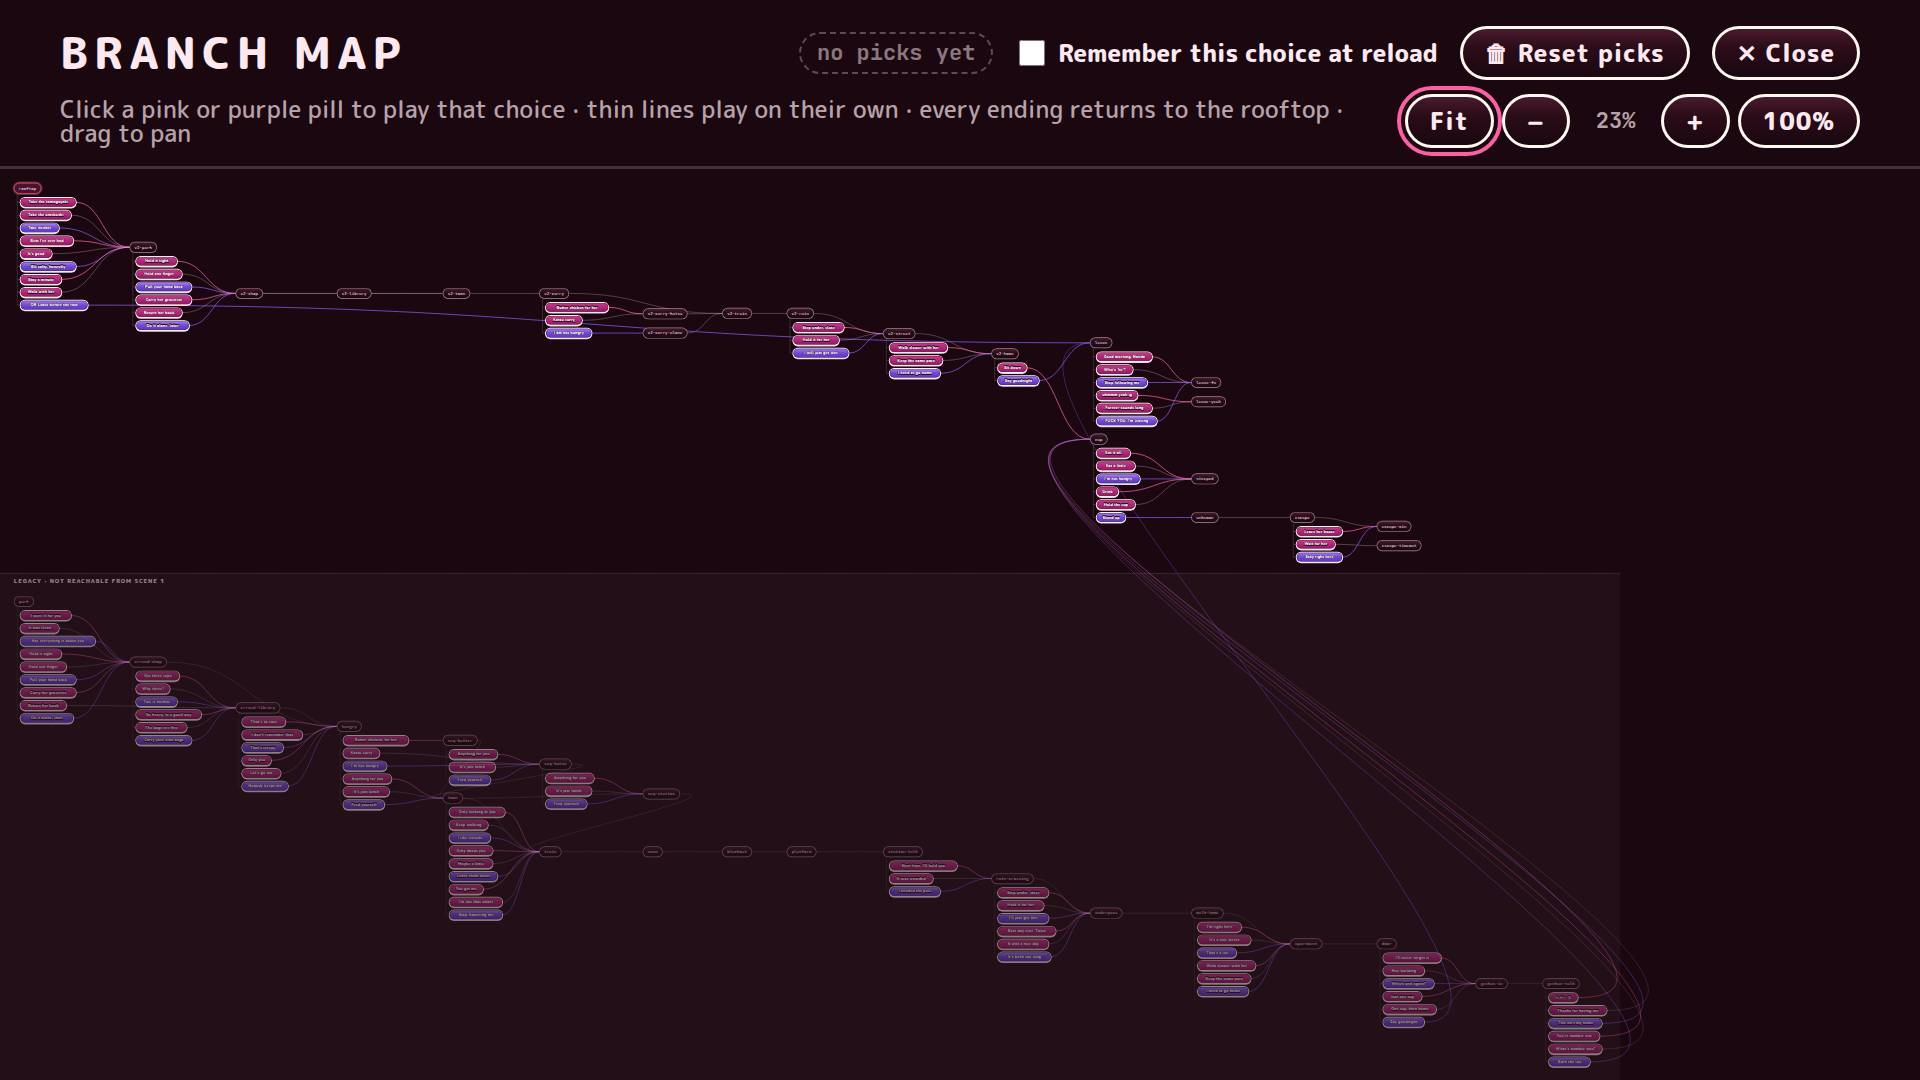
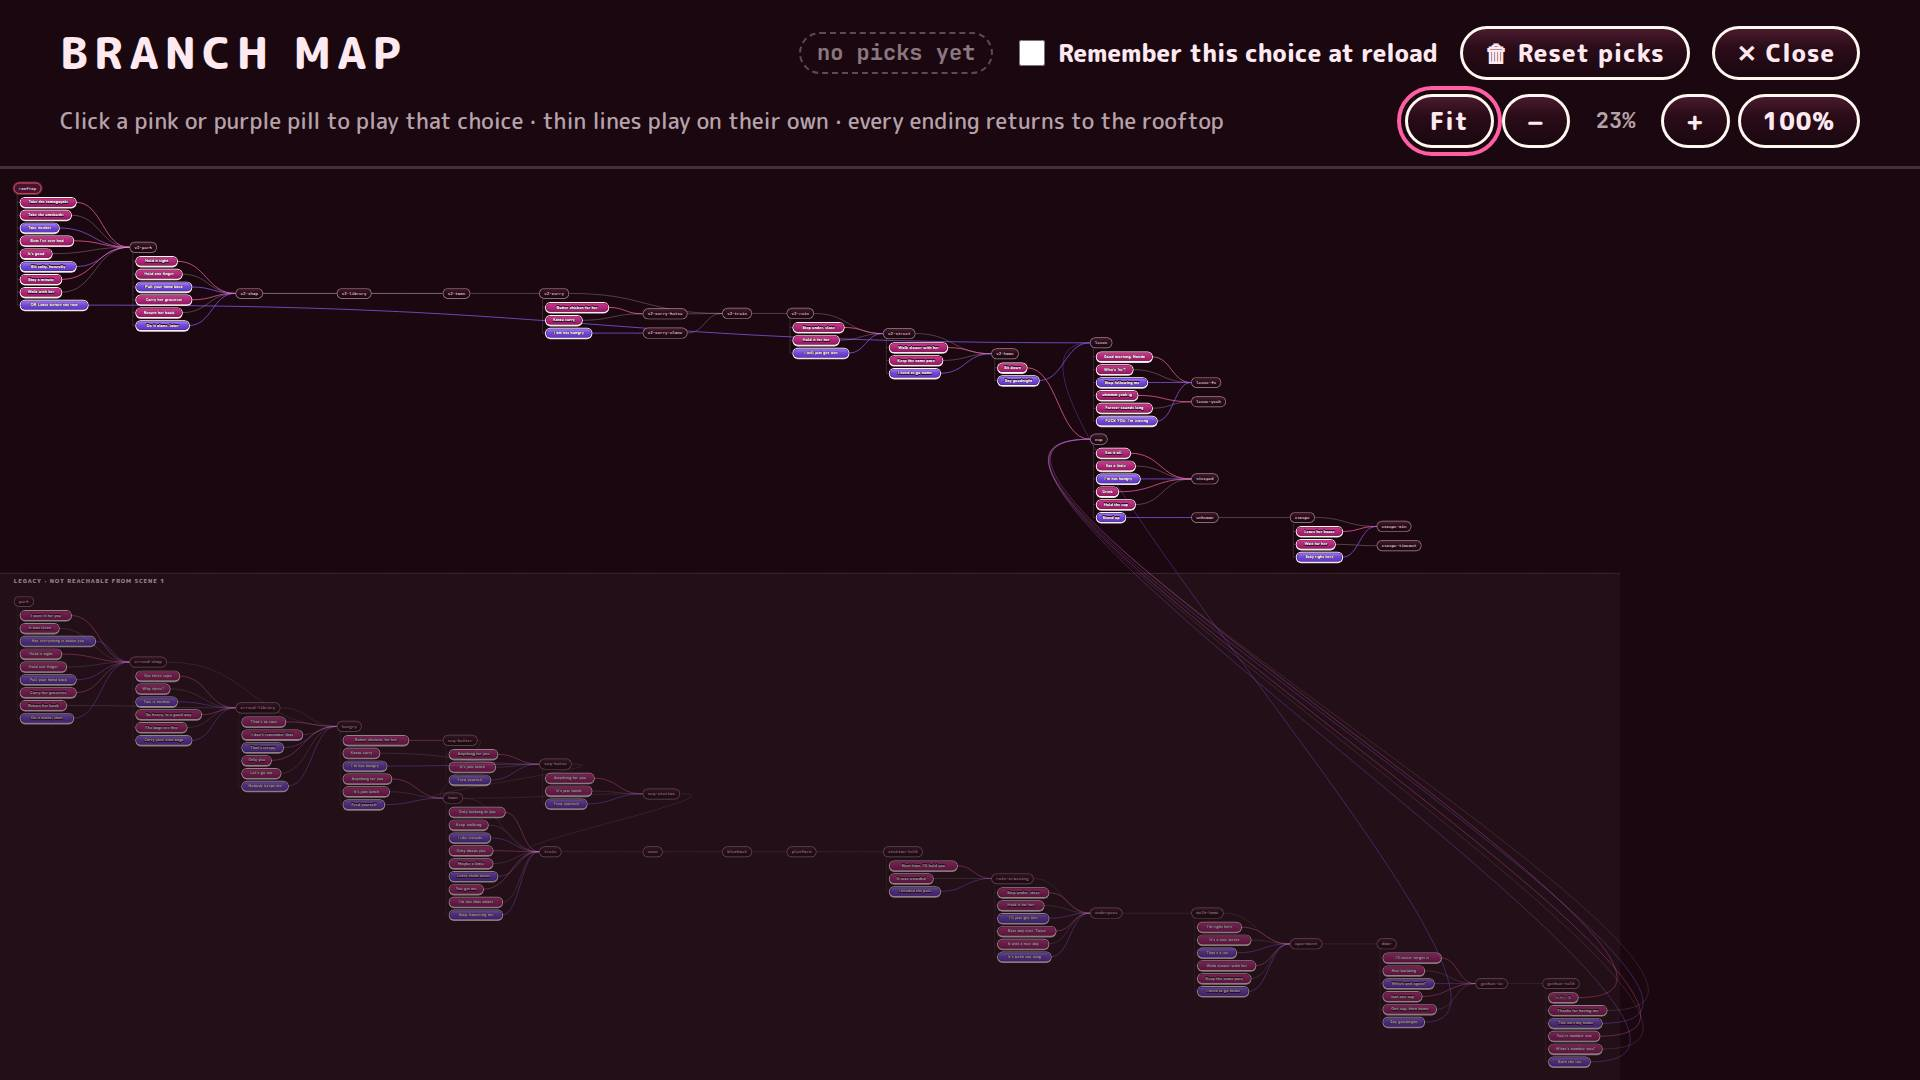
Branch map: hint fits on one row; before/after screenshots + NOTES (369 -> 0 overlaps)
Claude-Session: https://claude.ai/code/session_01GJLwbmyy5eVkLn2rdFjfYT

Changed region(s): [[0.0312, 0.0917, 0.6875, 0.1528]]

diff --git a/src/date-beta/Tree.jsx b/src/date-beta/Tree.jsx
@@ -110,7 +110,7 @@ export function Tree({ scenes, decl, sess, k, here, onJump, onClose }) {
         {Remember}
         <button type="button" className="db-tree-btn" onClick={trash} title="Clear every pick">🗑 Reset picks</button>
         <button type="button" className="db-tree-btn db-tree-close" onClick={onClose} title="Close (Esc or ~)">✕ Close</button>
-        <p className="db-tree-hint">Click a pink or purple pill to play that choice · thin lines play on their own · every ending returns to the rooftop · drag to pan</p>
+        <p className="db-tree-hint">Click a pink or purple pill to play that choice · thin lines play on their own · every ending returns to the rooftop</p>
         <span className="db-tree-zoom">
           <button type="button" className="db-tree-btn" data-zoom="fit" onClick={fit} title="Fit the whole map">Fit</button>
           <button type="button" className="db-tree-btn" data-zoom="out" onClick={() => zoom(z / STEP)} title="Zoom out">−</button>

diff --git a/src/date-beta/beta.css b/src/date-beta/beta.css
@@ -138,7 +138,7 @@ body { font-family: var(--cond); color: var(--ink); }
 .db-tree-btn { padding: 12px 22px; border-radius: 999px; border: 3px solid var(--g-rim); background: var(--g-dark); color: var(--scrim-ink);
   font: 700 24px/1 var(--cond); letter-spacing: .04em; cursor: pointer; }
 .db-tree-btn:hover, .db-tree-btn:focus-visible, .db-remember:focus-within { outline: 4px solid var(--pink); outline-offset: 4px; }
-.db-tree-hint { flex: 1 1 900px; margin: 0; font: 400 24px/1 var(--cond); color: rgba(255, 233, 241, .7); }
+.db-tree-hint { flex: 1 1 900px; margin: 0; font: 400 22px/1.1 var(--cond); color: rgba(255, 233, 241, .7); }
 .db-tree-lines { position: absolute; left: 0; top: 0; pointer-events: none; overflow: visible; }
 .db-tree-lines path { fill: none; stroke: rgba(255, 233, 241, .35); stroke-width: 3; }
 .db-tree-lines path.spine { stroke: rgba(255, 233, 241, .22); }

diff --git a/research/sprint-1001/tree/NOTES.md b/research/sprint-1001/tree/NOTES.md
@@ -1,0 +1,38 @@
+# Branch map (`?debug` / `~`) fix, sprint 1001
+
+## What changed
+- **Opaque layer.** `.db-tree` is solid `#1a0710`. Nothing from the game shows through.
+- **Fixed header, pannable canvas.** Row 1 has the title, picks, "Remember this choice at reload", Reset and Close. Row 2 has the hint plus **Fit / − / % / + / 100%**, styled like the other header buttons. The header is CSS-`zoom`ed by the game scale `k`. The canvas below it scrolls natively and can be dragged anywhere except on a button. Zoom keeps the view centre still.
+- **Layout (`debug.js layout(g, o, legacy)`).** The canvas is sized to fit the script; it is no longer squeezed into a 1920x1080 stage.
+  - Columns: the longest path from scene 1, as before.
+  - Each scene is a **block**: the node, with its branching pills in one column right under it. A thin spine joins the pills to the node.
+  - Each block sits at the mean y of whatever leads into it. A pill that leads into it counts with its own y, so a target lines up with its pill. A block is pushed down past the block above it. So boxes can never overlap.
+  - Edges go pill right side → target left side (and node right side → target left side for the thin lines), drawn as curves.
+- **Box sizes match the layout.** Each node and pill is drawn at exactly the width and height the layout gives it, with `nowrap`. Labels are full and never wrap or clamp. Pill width comes from the label: 10.5 px per char, CJK counts double.
+- **Legacy lane.** Scenes where `routeTo(scenes, i)` is `[]` get their own dashed, dimmed lane under the main map, labelled "Legacy · not reachable from scene 1". Its columns count only edges inside the lane. Legacy pills are still clickable, and full opacity on hover.
+- **Current scene.** The current scene (`here`) is still highlighted. The map opens at 100% scrolled to centre it.
+- **Kept as before:** pill click → prereq ask dialog → `onJump`, the focus trap, Esc to close, and the remember tick. The ask scrim is now `position: fixed`, with the dialog zoomed by `k`.
+
+## Numbers (1920x1080, `date-beta.html?debug`, full play script: 41 scenes, 110 pills)
+`node research/sprint-1001/tree/check.mjs <label> --jump --edge=door.3.1` (dev server on :5460):
+
+| | before (c190357c) | after |
+|---|---|---|
+| node/pill pairwise overlaps, as opened | **369** | **0** |
+| overlaps at Fit (23%) | n/a (no zoom) | **0** |
+| overlaps at 100% | n/a | **0** |
+| labels wider than their box | 0 (labels wrapped to 2–3 lines inside 142 px pills instead) | 0 |
+| current scene visible and on top on open | no (buried) | yes |
+| pill click jumps (door.3.1 → asks bento → closes → genkan-in) | yes | yes |
+
+An earlier "before" run showed 364 overlaps. That run had the fonts blocked by a node_modules symlink outside the Vite allow list. 369 is the run with the fonts loaded.
+
+Tests: `npm test` 436/436. The old rule "every node inside 1920x1080" is replaced by "every box inside L.W x L.H and no node/pill overlaps", checked on the base script and on the full play script (all PLAY packs). A new test checks that a scene's pills sit in one column under it. `npx vite build` passes.
+
+Screenshots: `before-open.jpg`, `after-open.jpg` (100%, centred on the current scene), `after-fit.jpg`.
+
+## Known limits
+- The canvas is large: about 7060 x 3490 px for the full script. Fit (about 23%) shows the whole shape, but pill text is too small to read at that zoom. Use + or 100% to read it.
+- Edges can still cross other edges, and a long edge can pass behind a block. The worst cases are the few edges from legacy scenes back into the main lane (for example into `cup`). They are drawn dimmed and loop because their target is to the left.
+- Pill widths are an estimate, not a measurement. The estimate is generous, so in-game labels fit with some slack. A label in a much wider font or glyph set could still overflow, and the `clipped` count in check.mjs would catch it.
+- No ctrl+wheel zoom and no keyboard pan. YAGNI.
